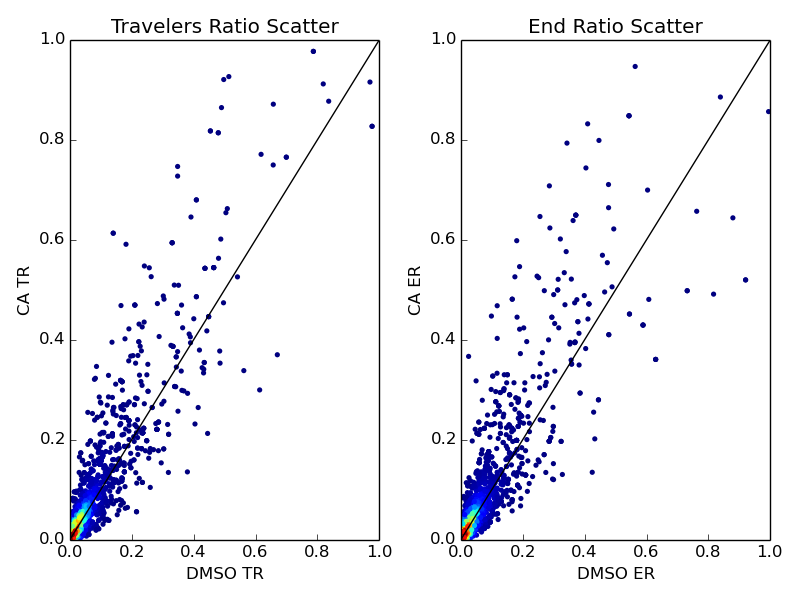
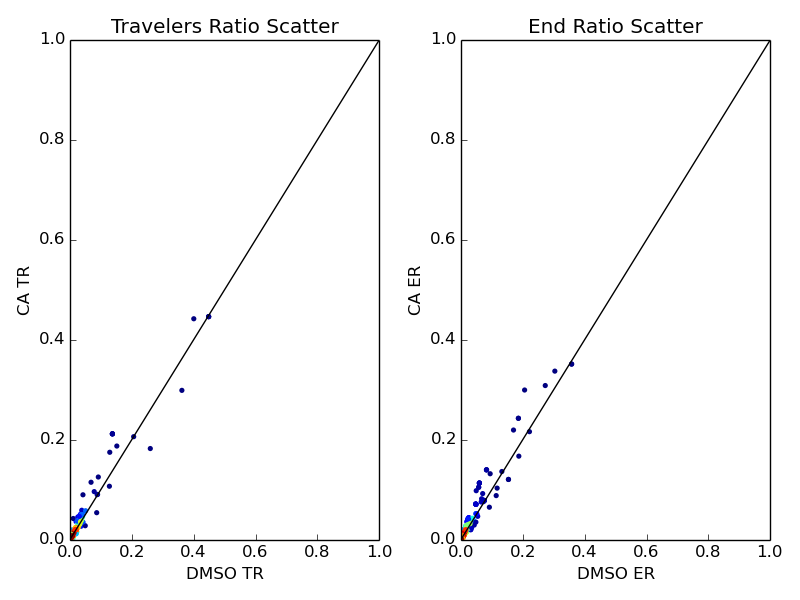
updates

diff --git a/src/master_writer.py b/src/master_writer.py
@@ -133,8 +133,8 @@ def run(DMSOgenes,DMSOTSS,DMSOEND,CAgenes,CATSS,CAEND,filedir,figuredir):
     ax1.set_xlabel('DMSO TR')
     ax1.get_xaxis().tick_bottom()
     ax1.get_yaxis().tick_left()
-    ax1.set_xlim([0, 1])
-    ax1.set_ylim([0, 1])
+    ax1.set_xlim([0, 0.5])
+    ax1.set_ylim([0, 0.5])
     ax1.plot([0,1],color='k')
     ax2 = F3.add_subplot(1,2,2)
     xy = np.vstack([ERx,ERy])
@@ -145,8 +145,8 @@ def run(DMSOgenes,DMSOTSS,DMSOEND,CAgenes,CATSS,CAEND,filedir,figuredir):
     ax2.set_xlabel('DMSO ER')
     ax2.get_xaxis().tick_bottom()
     ax2.get_yaxis().tick_left()
-    ax2.set_xlim([0, 1])
-    ax2.set_ylim([0, 1])
+    ax2.set_xlim([0, 0.5])
+    ax2.set_ylim([0, 0.5])
     ax2.plot([0,1],color = 'k')
     plt.savefig(figuredir + '/Scatter_reflected.png')
     for item in sorted(TRgenes, key=itemgetter(1),reverse=True):
